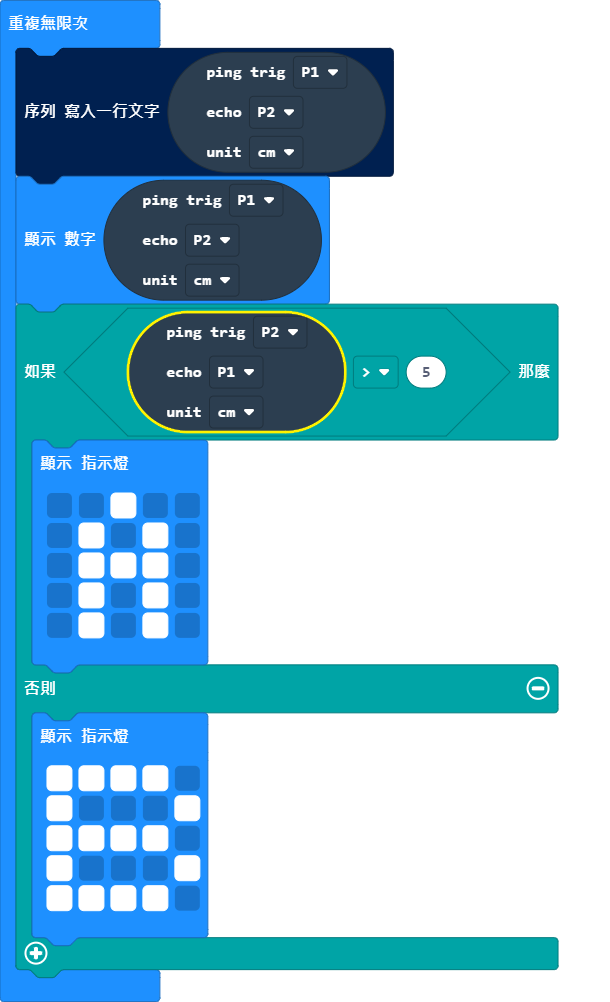
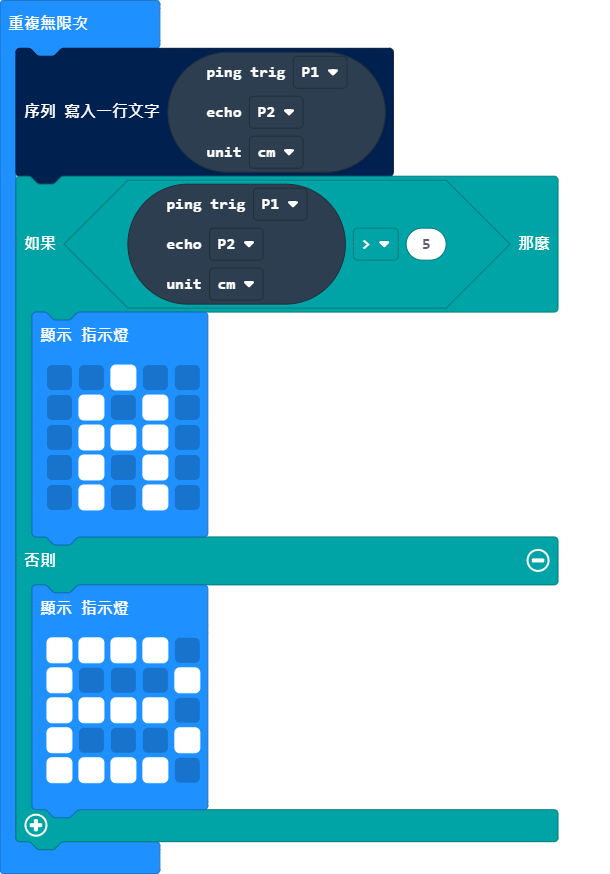
更新 main.blocks, main.ts

diff --git a/main.ts b/main.ts
@@ -4,14 +4,9 @@ basic.forever(function () {
     DigitalPin.P2,
     PingUnit.Centimeters
     )))
-    basic.showNumber(sonar.ping(
-    DigitalPin.P1,
-    DigitalPin.P2,
-    PingUnit.Centimeters
-    ))
     if (sonar.ping(
-    DigitalPin.P2,
     DigitalPin.P1,
+    DigitalPin.P2,
     PingUnit.Centimeters
     ) > 5) {
         basic.showLeds(`
